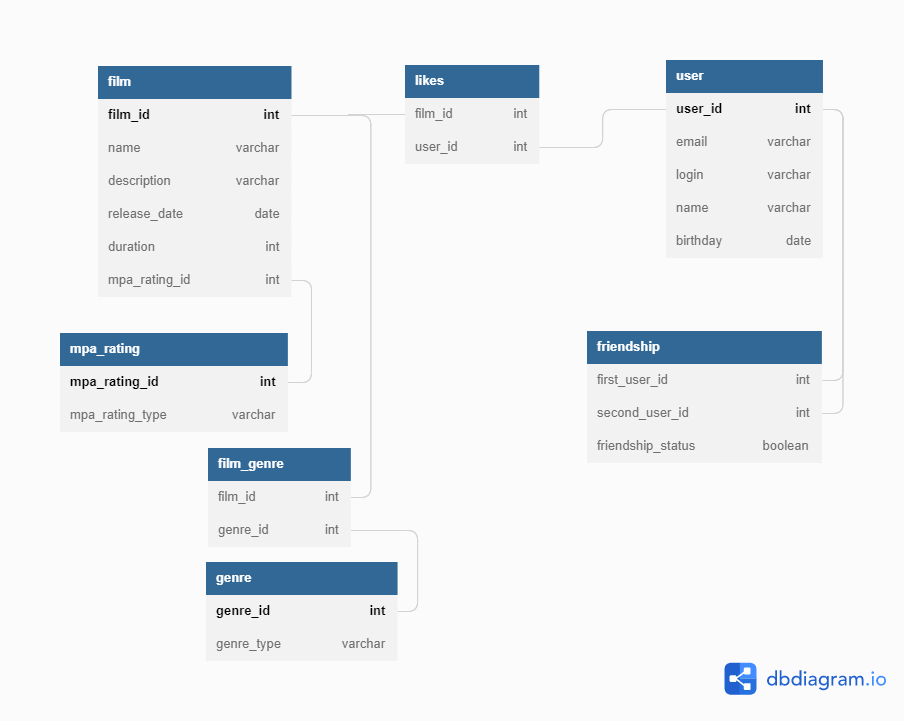
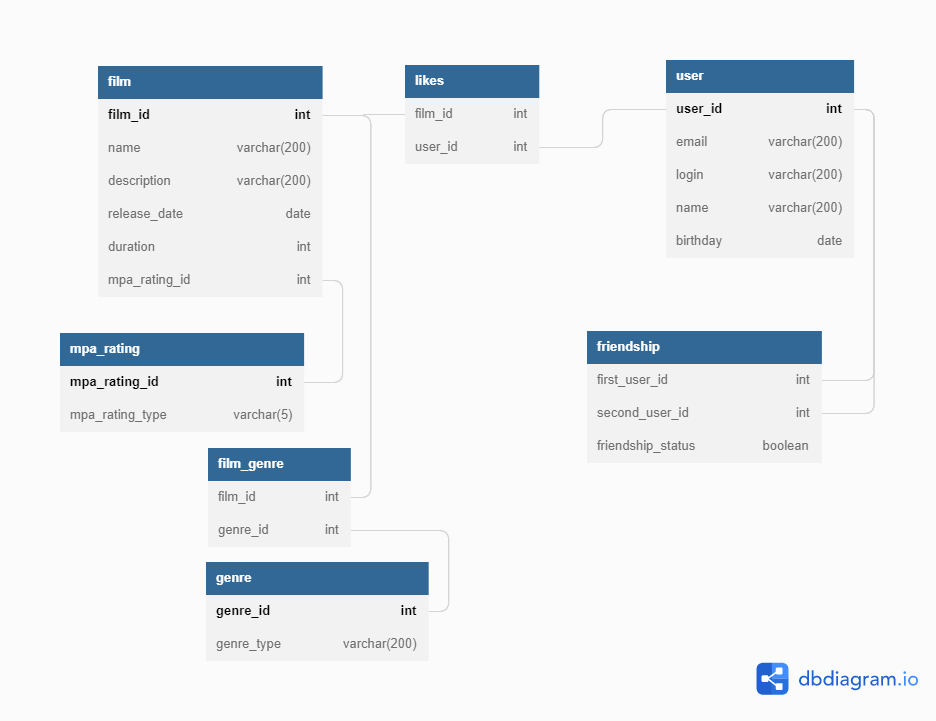
Добавлено количество символов для текстовых значений, добавлено описание схемы

diff --git a/README.md b/README.md
@@ -1,3 +1,23 @@
 # java-filmorate
 Template repository for Filmorate project.
 ![Image](Schema.png)
+
+Структура БД:
+film - информация о фильме
+mpa_rating - таблица, связывающая id рейтинга с его описанием
+film_genre - таблица, связывающая id фильма с id его жанров
+genre - таблица, связывающая id жанра с его описанием
+user - информация о пользователе
+friendship - таблица, отображающая стаус дружбы (true - дружба, false - непринятый запрос на дружбу)
+likes - информация о лайках, поставленным фильму пользователями
+
+Примеры:
+SELECT *
+FROM film; // отобразить всю информацию о всех фильмах
+
+SELECT name
+FROM film
+JOIN film_genre ON film.film_id = film_genre.film_id
+JOIN genre ON film_genre.genre_id = genre.genre_id
+WHERE genre.genre_type = 'Боевик'; // отобразить названия фильмов с жанром "Боевик"
+
